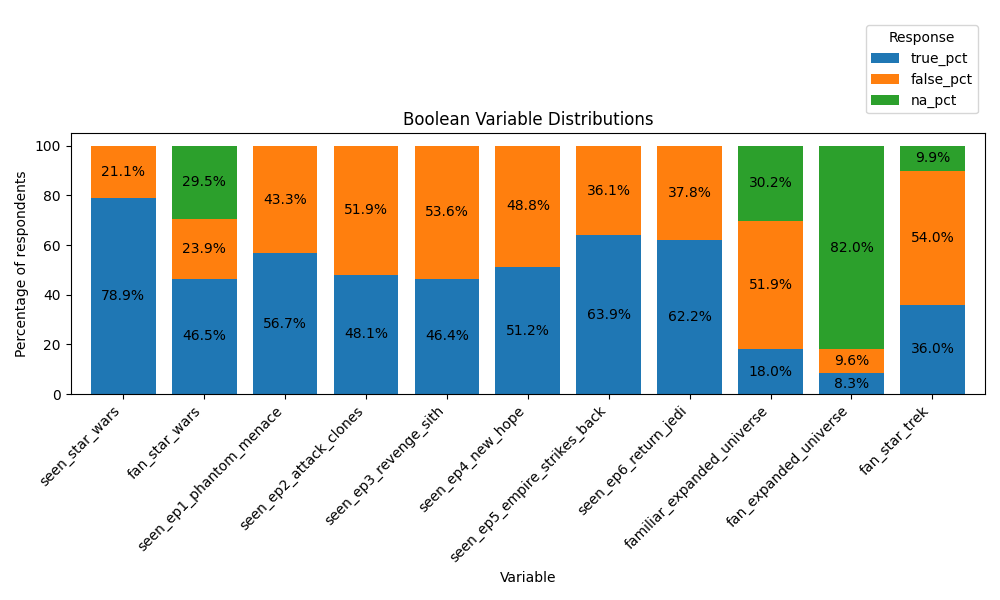
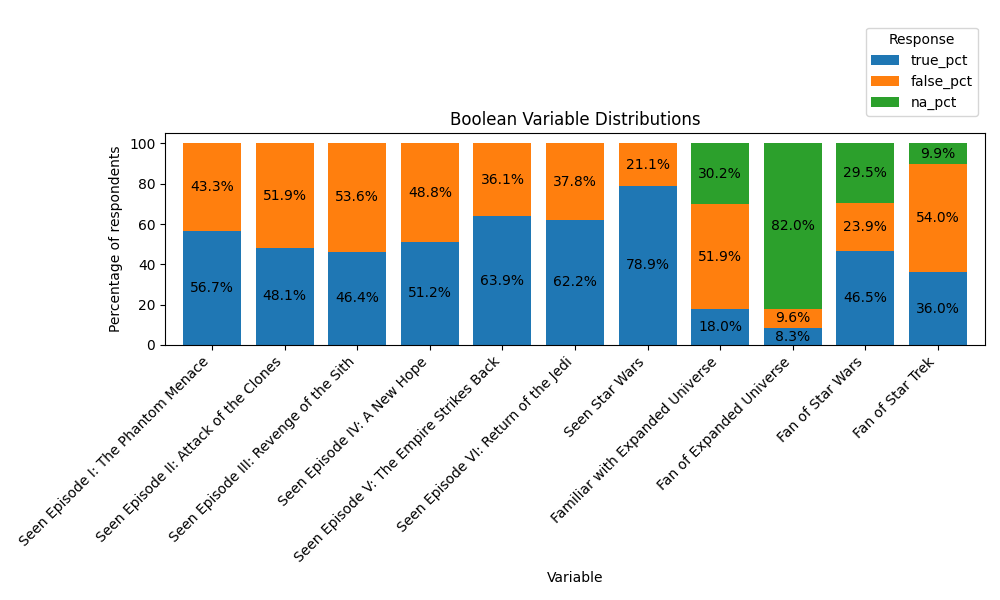
Fixed reports/figures/phase2/boolean/boolean_summary.png a bit more

diff --git a/src/config.py b/src/config.py
@@ -4,19 +4,19 @@
 # CONFIGURATION DICTIONARIES
 # =========================
 
-BOOLEAN_COLUMNS: list[str] = [
-    "seen_star_wars",
-    "fan_star_wars",
-    "seen_ep1_phantom_menace",
-    "seen_ep2_attack_clones",
-    "seen_ep3_revenge_sith",
-    "seen_ep4_new_hope",
-    "seen_ep5_empire_strikes_back",
-    "seen_ep6_return_jedi",
-    "familiar_expanded_universe",
-    "fan_expanded_universe",
-    "fan_star_trek",
-]
+BOOLEAN_COLUMNS: dict[str, str] = {
+    "seen_ep1_phantom_menace":      "Seen Episode I: The Phantom Menace",
+    "seen_ep2_attack_clones":       "Seen Episode II: Attack of the Clones",
+    "seen_ep3_revenge_sith":        "Seen Episode III: Revenge of the Sith",
+    "seen_ep4_new_hope":            "Seen Episode IV: A New Hope",
+    "seen_ep5_empire_strikes_back": "Seen Episode V: The Empire Strikes Back",
+    "seen_ep6_return_jedi":         "Seen Episode VI: Return of the Jedi",
+    "seen_star_wars":               "Seen Star Wars",
+    "familiar_expanded_universe":   "Familiar with Expanded Universe",
+    "fan_expanded_universe":        "Fan of Expanded Universe",
+    "fan_star_wars":                "Fan of Star Wars",
+    "fan_star_trek":                "Fan of Star Trek",
+}
 
 # Mapping from dataset column names to human-readable character names
 CHARACTER_RATING_COLUMNS: dict[str, str] = {

diff --git a/analysis/visualization/phase2_1_visualization.py b/analysis/visualization/phase2_1_visualization.py
@@ -9,7 +9,7 @@ import pandas as pd
 from pathlib import Path
 import numpy as np
 from matplotlib.lines import Line2D
-from src.config import EPISODE_RANK_COLUMNS, RANK_COLORS, CHARACTER_RATING_COLUMNS
+from src.config import EPISODE_RANK_COLUMNS, RANK_COLORS, CHARACTER_RATING_COLUMNS, BOOLEAN_COLUMNS
 from pandas.api.types import CategoricalDtype
 
 
@@ -295,6 +295,9 @@ def plot_boolean_summary(
     for boolean survey variables.
     """
     plot_df: pd.DataFrame = prepare_boolean_plot_data(summary)
+
+    # Replace variable names with human-readable labels
+    plot_df.index = plot_df.index.map(BOOLEAN_COLUMNS)
 
     fig, ax = plt.subplots(figsize=(10, 6))
 
